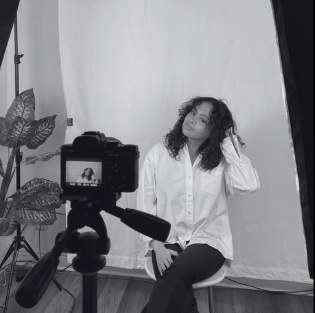
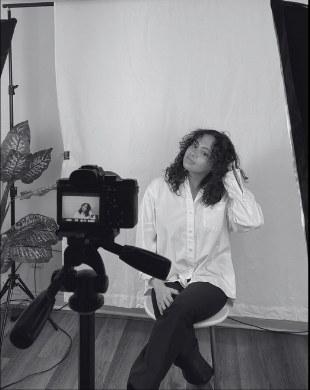
Update Headshot Day poster, photos and end time (11am–3pm)
Claude-Session: https://claude.ai/code/session_0193Xx6cSpqirGwUMspMqVQ2

diff --git a/index.html b/index.html
@@ -42,9 +42,9 @@
         </div>
 
         <div class="strip" aria-label="Portraits made at Kilombo">
-          <figure class="frame frame--now" style="margin:0"><img src="images/frame-1.jpg" alt="Smiling black-and-white studio headshot" width="315" height="314" /></figure>
-          <figure class="frame" style="margin:0"><img src="images/frame-2.jpg" alt="A sitter on a stool in front of a white backdrop, camera on a tripod in the foreground" width="315" height="313" /></figure>
-          <figure class="frame" style="margin:0"><img src="images/frame-3.jpg" alt="Smiling black-and-white studio headshot of a person in glasses" width="318" height="319" /></figure>
+          <figure class="frame frame--now" style="margin:0"><img src="images/frame-1.jpg" alt="Smiling black-and-white studio headshot" width="310" height="392" /></figure>
+          <figure class="frame" style="margin:0"><img src="images/frame-2.jpg" alt="A sitter on a stool in front of a white backdrop, camera on a tripod in the foreground" width="310" height="390" /></figure>
+          <figure class="frame" style="margin:0"><img src="images/frame-3.jpg" alt="Smiling black-and-white studio headshot of a woman with shoulder-length dark hair" width="313" height="392" /></figure>
         </div>
 
         <div class="hero-intro">
@@ -60,7 +60,7 @@
           <h2 id="next-title">$5 headshots</h2>
           <dl>
             <dt>When</dt><dd>Sat, Nov 21, 2026</dd>
-            <dt>Time</dt><dd>11:00am to 4:00pm</dd>
+            <dt>Time</dt><dd>11:00am to 3:00pm</dd>
             <dt>Where</dt><dd>1282 Dundas St. W</dd>
           </dl>
           <a class="btn btn--small" href="book.html?interest=%245%20Headshot%20Day%20%28Nov%2021%29#request">Reserve a slot</a>
@@ -77,14 +77,14 @@
 
         <div class="feature">
           <a class="frame frame--now" href="images/headshot-day-poster.jpg" target="_blank" rel="noopener" aria-label="Open the $5 Headshot Day poster">
-            <img src="images/headshot-day-poster.jpg" alt="$5 Headshots poster: Saturday November 21, 2026, 11am to 4pm, 1282 Dundas Street W" width="1024" height="1274" loading="lazy" />
+            <img src="images/headshot-day-poster.jpg" alt="$5 Headshots poster: Saturday November 21, 2026, 11am to 3pm, 1282 Dundas Street W" width="1080" height="1350" loading="lazy" />
           </a>
           <div class="feature-body">
             <h3 class="h2">$5 Headshot Day</h3>
             <p class="lead">A 10-minute sitting, two looks and one edited photo for your LinkedIn, portfolio or business. Every dollar goes back into the studio and its community programs.</p>
             <dl class="facts">
               <dt>When</dt><dd>Saturday, November 21, 2026</dd>
-              <dt>Time</dt><dd>11:00am to 4:00pm</dd>
+              <dt>Time</dt><dd>11:00am to 3:00pm</dd>
               <dt>Where</dt><dd>1282 Dundas St. W</dd>
               <dt>Price</dt><dd>$5 per sitting, walk-ins welcome if there's room</dd>
             </dl>

diff --git a/book.html b/book.html
@@ -41,7 +41,7 @@
           <p class="lead">Rent the photo studio, darkroom, editing suite or print station by the hour, or become a member and get studio time every month.</p>
           <div class="btn-row"><a class="btn" href="#request">Request a booking</a><a class="btn btn--ghost" href="#rates">See rates</a></div>
         </div>
-        <figure class="frame" style="margin:0"><img src="images/frame-2.jpg" alt="A sitter on a stool in front of a white backdrop, camera on a tripod in the foreground" width="315" height="313" /></figure>
+        <figure class="frame" style="margin:0"><img src="images/frame-2.jpg" alt="A sitter on a stool in front of a white backdrop, camera on a tripod in the foreground" width="310" height="390" /></figure>
       </div>
     </section>
     <div class="hide-band hide-bg" role="presentation"></div>

diff --git a/about.html b/about.html
@@ -40,7 +40,7 @@
           <h1 id="page-title" class="display">About</h1>
           <p class="lead">Kilombo Studios is a community photography and creative space rooted in accessibility, self-expression and visual sovereignty, built for the artists, migrants and storytellers who needed a space like this to exist.</p>
         </div>
-        <figure class="frame" style="margin:0"><img src="images/frame-3.jpg" alt="Smiling black-and-white studio headshot of a person in glasses" width="318" height="319" /></figure>
+        <figure class="frame" style="margin:0"><img src="images/frame-3.jpg" alt="Smiling black-and-white studio headshot of a woman with shoulder-length dark hair" width="313" height="392" /></figure>
       </div>
     </section>
 

diff --git a/css/site.css b/css/site.css
@@ -112,7 +112,7 @@ h1, h2, h3 { margin: 0; font-weight: 700; }
 /* ── Frames: every image sits in a black print frame.
       The violet ring marks whatever is happening now. ───────────── */
 .frame { background: var(--black); padding: var(--frame); }
-.frame img { width: 100%; height: 100%; object-fit: cover; }
+.frame img { width: 100%; height: 100%; object-fit: cover; object-position: 50% 30%; }
 .frame--now { box-shadow: 0 0 0 5px var(--violet); }
 
 /* ── Cow hide ────────────────────────────────────────────────────── */

diff --git a/workshops.html b/workshops.html
@@ -45,7 +45,7 @@
           <h2 id="up-title">Coming up: $5 headshots</h2>
           <dl>
             <dt>When</dt><dd>Sat, Nov 21, 2026</dd>
-            <dt>Time</dt><dd>11:00am to 4:00pm</dd>
+            <dt>Time</dt><dd>11:00am to 3:00pm</dd>
             <dt>Where</dt><dd>1282 Dundas St. W</dd>
           </dl>
           <p>A 10-minute sitting, two looks and one edited photo. A fundraiser for the studio.</p>
